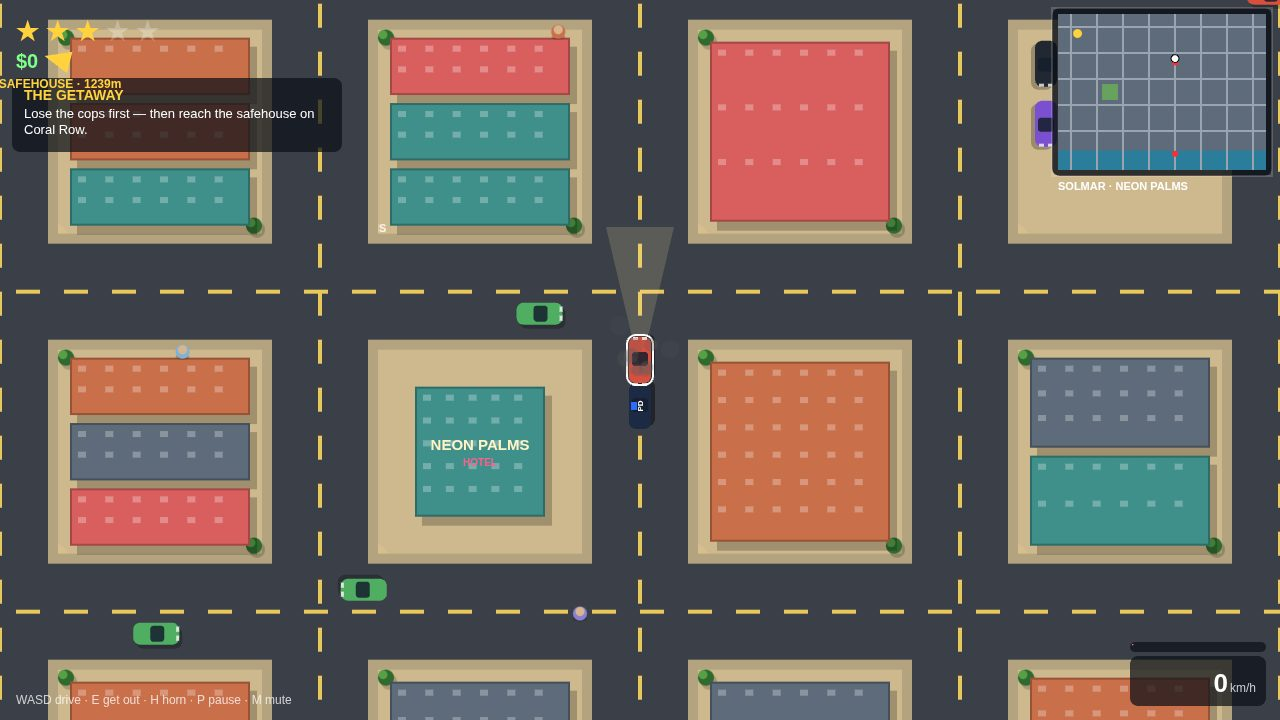
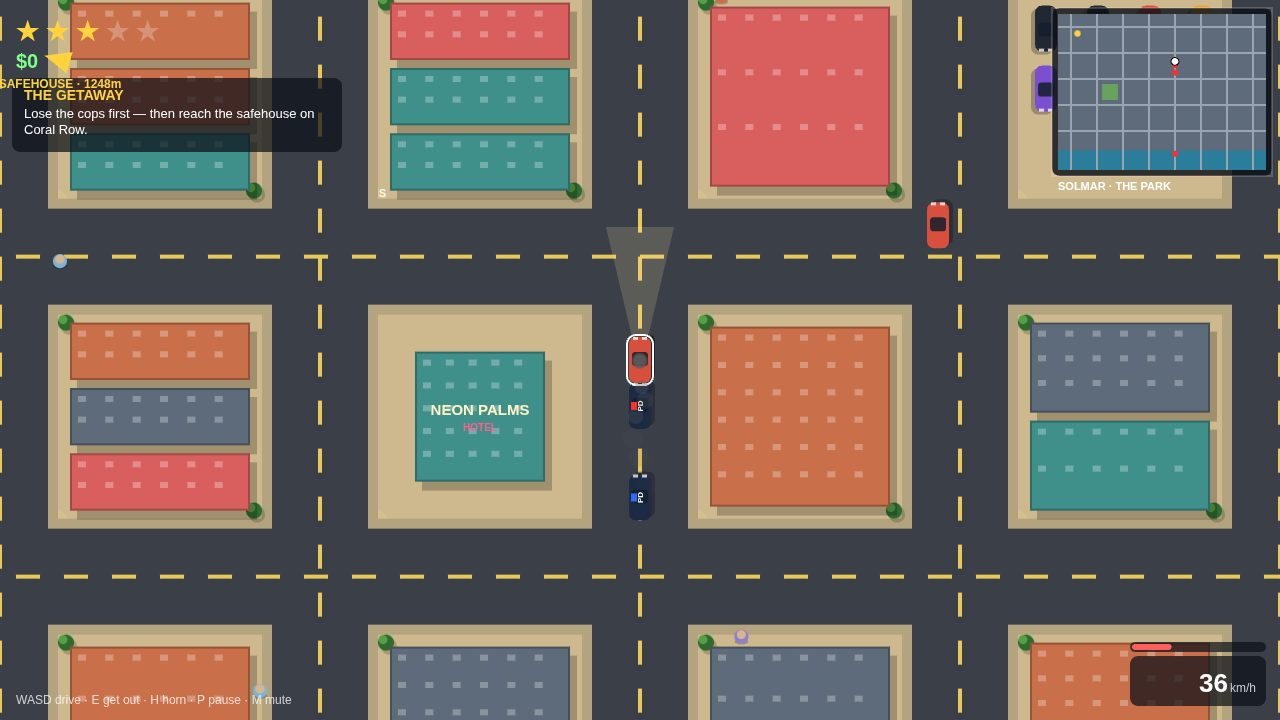
SOLMAR HEAT: shorten getaway shot to 2.5s so the chase frame shows Dario racing, not pinned

diff --git a/game/src/shots.js b/game/src/shots.js
@@ -8,7 +8,7 @@ import { SCREEN_PLAY, SCREEN_TITLE } from './render.js';
 const START_SECONDS = 6;
 const DRIVE_SECONDS = 5.5;
 const FOOT_SECONDS = 5;
-const GETAWAY_SECONDS = 7;
+const GETAWAY_SECONDS = 2.5;
 
 /** Steer toward a point, holding the gas — the car turns as it goes. */
 function steerToward(player, tx, ty) {
@@ -96,8 +96,10 @@ export function stageShot(name, world) {
     return { screen: SCREEN_TITLE };
   }
   if (name === 'getaway') {
-    // The third job: three stars, three patrol cars, Dario racing west along
-    // the Neon Palms strip toward the safehouse — the chase at its hottest.
+    // The third job: three stars, three patrol cars, Dario racing north up
+    // Coral Row toward the safehouse — the chase at its hottest. The scene is
+    // short on purpose: the patrol cars are faster than Dario, and a longer
+    // run ends with him pinned against a wall at 0 km/h instead of racing.
     const state = world.state;
     const car = { kind: 'player', x: 1440, y: 1300, angle: -Math.PI / 2, speed: 280, color: '#d94f3d' };
     state.cars.push(car);
